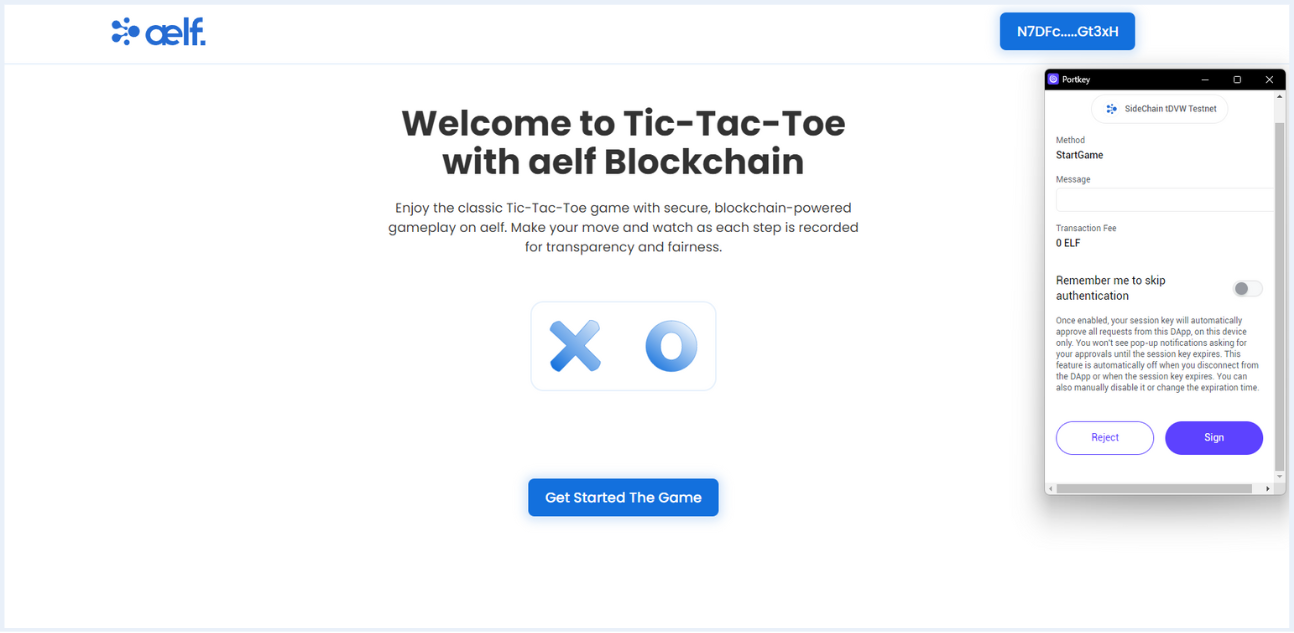
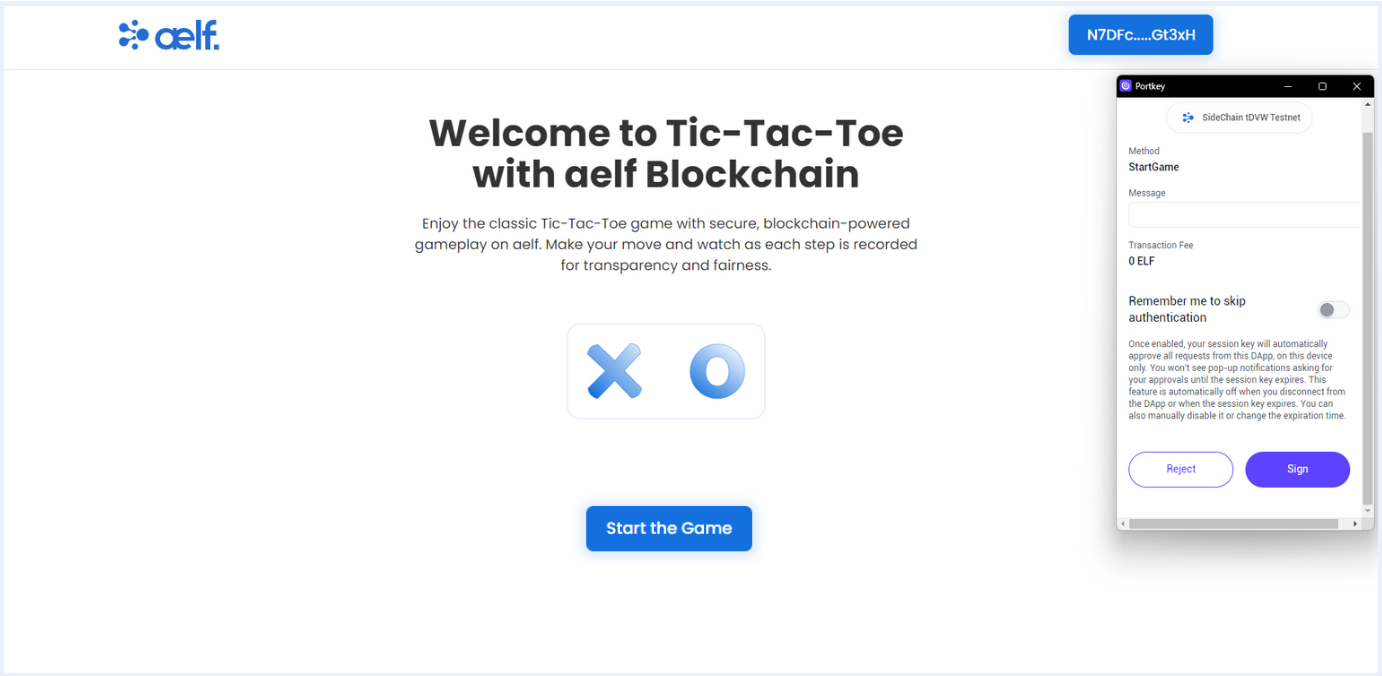
Updated images for tictactoe dapp

diff --git a/docs/quick-start/developers/tic-tac-toe-dapp/index.md b/docs/quick-start/developers/tic-tac-toe-dapp/index.md
@@ -868,7 +868,7 @@ It is highly recommended to pin the Portkey wallet extension for easier access a
 
 **Start The Game**
 
-- Click on **"Start The Game"** button to start The Tic-Tac-Toe Game.
+- Click on **"Start The Game"** button to Start The Tic Tac Toe Game.
 
    ![start-game](/img/start-game-button.png)
 
